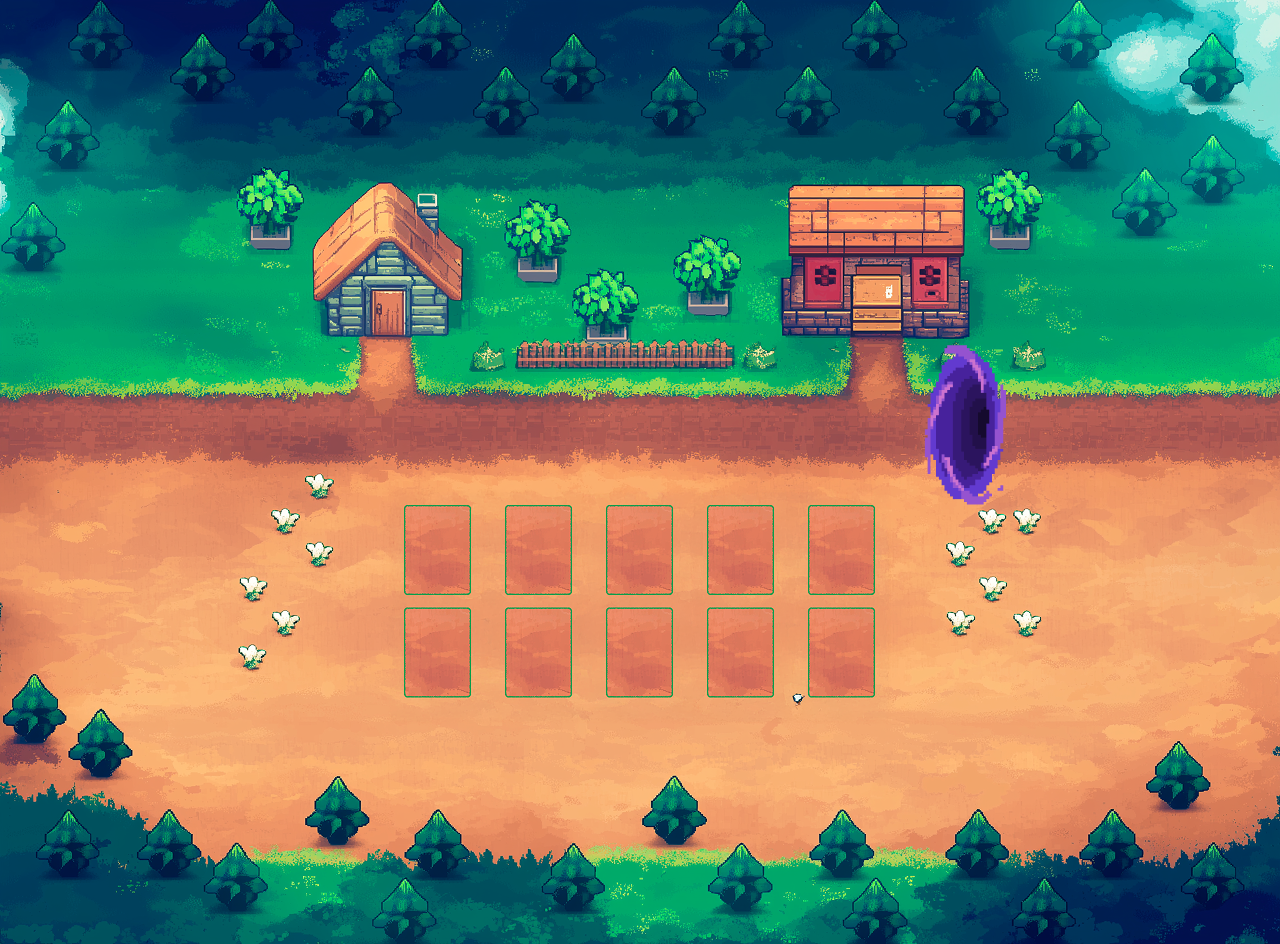
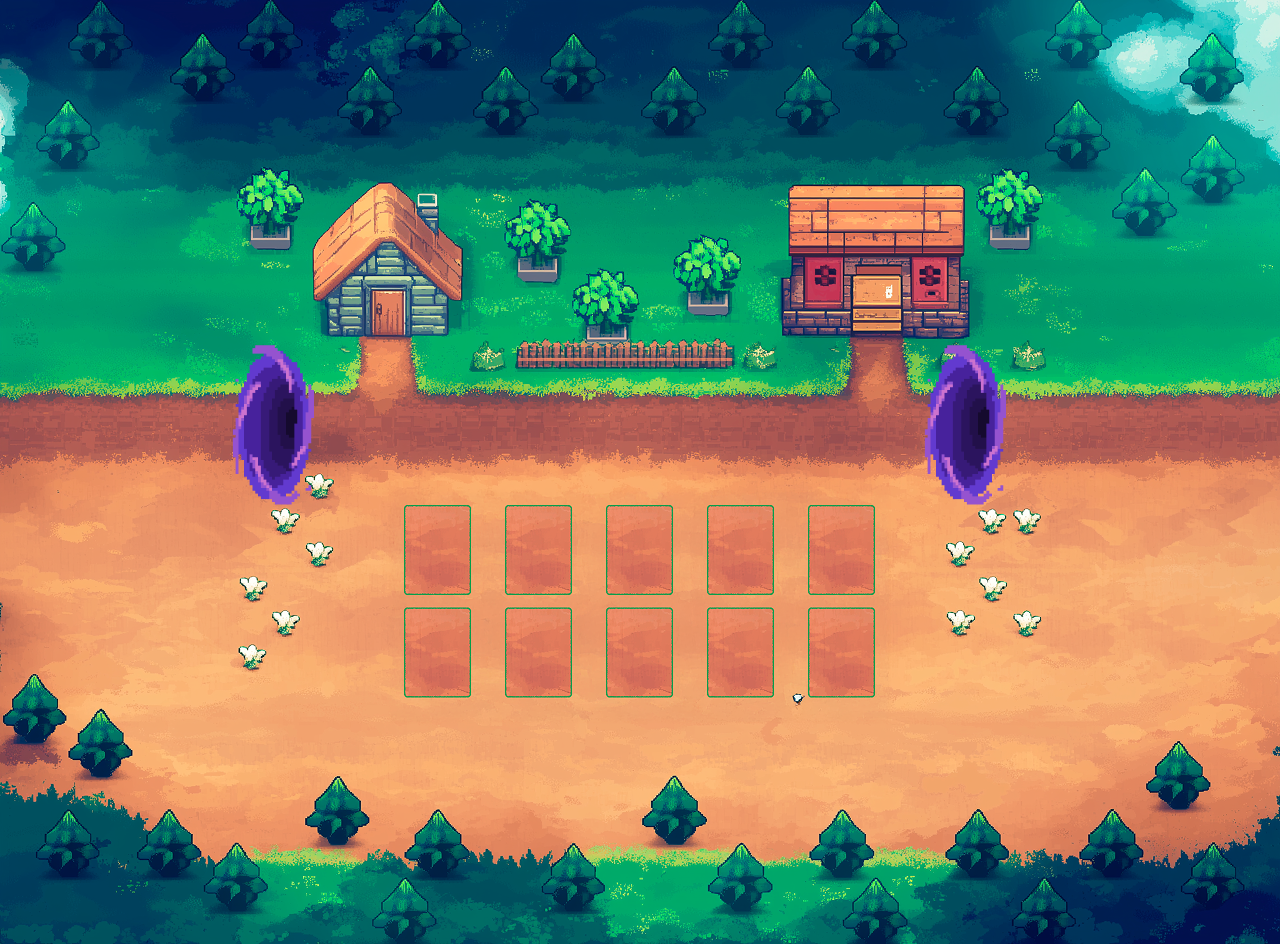
fix portal

Changed region(s): [[0.1562, 0.3686, 0.25, 0.553]]

diff --git a/src/components/Player.tsx b/src/components/Player.tsx
@@ -42,13 +42,19 @@ const marketBounds = {
   y: 1.7,
 };
 
-const portalBounds = {
+const exitPortalBounds = {
   x1: 4.5,
   x2: 3.9,
   y1: 1.5,
   y2: 0.5,
 };
 
+const enterPortalBounds = {
+  x1: -3.9,
+  x2: -4.5,
+  y1: 1.5,
+  y2: 0.5,
+};
 const playerBounds = {
   left: -2,
   center: 2,
@@ -73,7 +79,10 @@ export default function Player({
   const { ganjaFarmStore } = useStores();
   const tilesHoriz = 4;
   const tilesVert = 5;
-  const tempSpriteMap = useLoader(TextureLoader, "images/bunny_animations.png");
+  const tempSpriteMap = useLoader(
+    TextureLoader,
+    "./images/bunny_animations.png"
+  );
   tempSpriteMap.magFilter = NearestFilter;
   tempSpriteMap.repeat.set(1 / tilesHoriz, 1 / tilesVert);
 
@@ -151,8 +160,10 @@ export default function Player({
 
     const isInGarden = checkIfInGarden();
     const isAtMarket = checkIfAtMarket();
-    const ifAtPortal = checkIfAtPortal();
-    if (!isInGarden && !isAtMarket && !ifAtPortal) {
+    const ifAtExitPortal = checkIfAtExitPortal();
+    const ifAtEnterPortal = checkIfAtEnterPortal();
+    console.log({ ifAtExitPortal, ifAtEnterPortal });
+    if (!isInGarden && !isAtMarket && !ifAtExitPortal && !ifAtEnterPortal) {
       setModal("none");
       isCheckingTilesRef.current = false;
       return;
@@ -183,8 +194,10 @@ export default function Player({
       } catch (err) {
         console.error("Error checking harvest status:", err);
       }
-    } else if (ifAtPortal) {
-      setModal("portal");
+    } else if (ifAtExitPortal) {
+      setModal("exitPortal");
+    } else if (ifAtEnterPortal) {
+      setModal("enterPortal");
     } else if (isAtMarket) {
       setModal("market");
     }
@@ -216,12 +229,25 @@ export default function Player({
       return false;
     }
   }
-  function checkIfAtPortal() {
+  function checkIfAtExitPortal() {
     if (
-      ref.current!.position.x < portalBounds.x1 &&
-      ref.current!.position.x > portalBounds.x2 &&
-      ref.current!.position.y < portalBounds.y1 &&
-      ref.current!.position.y > portalBounds.y2
+      ref.current!.position.x < exitPortalBounds.x1 &&
+      ref.current!.position.x > exitPortalBounds.x2 &&
+      ref.current!.position.y < exitPortalBounds.y1 &&
+      ref.current!.position.y > exitPortalBounds.y2
+    ) {
+      return true;
+    } else {
+      return false;
+    }
+  }
+
+  function checkIfAtEnterPortal() {
+    if (
+      ref.current!.position.x < enterPortalBounds.x1 &&
+      ref.current!.position.x > enterPortalBounds.x2 &&
+      ref.current!.position.y < enterPortalBounds.y1 &&
+      ref.current!.position.y > enterPortalBounds.y2
     ) {
       return true;
     } else {

diff --git a/src/utils/portals.ts b/src/utils/portals.ts
@@ -1,0 +1,59 @@
+// Получить параметры из URL
+function getQueryParams() {
+  const params = new URLSearchParams(window.location.search);
+  return {
+    username: params.get("username") || "guest",
+    color: params.get("color") || "green",
+    speed: params.get("speed") || "1.0",
+    ref: params.get("ref") || "",
+    avatar_url: params.get("avatar_url"),
+    team: params.get("team"),
+    speed_x: params.get("speed_x"),
+    speed_y: params.get("speed_y"),
+    speed_z: params.get("speed_z"),
+    rotation_x: params.get("rotation_x"),
+    rotation_y: params.get("rotation_y"),
+    rotation_z: params.get("rotation_z"),
+    portal: params.get("portal") === "true",
+  };
+}
+
+// Собрать параметры в строку
+function buildQueryString(params: any) {
+  const query = new URLSearchParams({
+    username: params.username,
+    color: params.color,
+    speed: params.speed,
+    ref: window.location.href, // ссылка на текущую игру
+  });
+
+  if (params.avatar_url) query.append("avatar_url", params.avatar_url);
+  if (params.team) query.append("team", params.team);
+  if (params.speed_x) query.append("speed_x", params.speed_x);
+  if (params.speed_y) query.append("speed_y", params.speed_y);
+  if (params.speed_z) query.append("speed_z", params.speed_z);
+  if (params.rotation_x) query.append("rotation_x", params.rotation_x);
+  if (params.rotation_y) query.append("rotation_y", params.rotation_y);
+  if (params.rotation_z) query.append("rotation_z", params.rotation_z);
+
+  return query.toString();
+}
+
+// 🚪 Функция: игрок входит в выходной портал (Vibeverse)
+export function goToExitPortal() {
+  const params = getQueryParams();
+  const baseUrl = "http://portal.pieter.com";
+  const query = buildQueryString(params);
+  window.open(`${baseUrl}/?${query}`);
+}
+
+// 🔁 Функция: игрок возвращается назад в игру, из которой пришёл
+export function returnToRefPortal() {
+  const params = getQueryParams();
+  if (!params.ref) {
+    alert("No ref found. Cannot return.");
+    return;
+  }
+  const query = buildQueryString(params);
+  window.open(`${params.ref}?portal=true&${query}`);
+}

diff --git a/index.html b/index.html
@@ -39,17 +39,17 @@
     </script> -->
 
     <meta charset="utf-8" />
-    <link rel="icon" type="image/svg+xml" href="/favicon.ico" />
+    <link rel="icon" type="image/svg+xml" href="./favicon.ico" />
     <meta name="viewport" content="width=device-width, initial-scale=1.0" />
 
     <meta name="theme-color" content="#000000" />
     <meta name="description" content="Farm of ganja." />
-    <link rel="apple-touch-icon" href="/logo192.png" />
+    <link rel="apple-touch-icon" href="./logo192.png" />
     <!--
       manifest.json provides metadata used when your web app is installed on a
       user's mobile device or desktop. See https://developers.google.com/web/fundamentals/web-app-manifest/
     -->
-    <link rel="manifest" href="/manifest.json" />
+    <link rel="manifest" href="./manifest.json" />
     <!--
       Notice the use of %PUBLIC_URL% in the tags above.
       It will be replaced with the URL of the `public` folder during the build.
@@ -66,7 +66,7 @@
     <noscript>You need to enable JavaScript to run this app.</noscript>
     <div id="root"></div>
     <a target="_blank" href="https://jam.pieter.com" style="font-family: 'system-ui', sans-serif; position: fixed; bottom: -1px; right: -1px; padding: 7px; font-size: 14px; font-weight: bold; background: #fff; color: #000; text-decoration: none; z-index: 10; border-top-left-radius: 12px; z-index: 10000; border: 1px solid #fff;">🕹 Vibe Jam 2025</a>
-    <script type="module" src="/src/main.tsx"></script>
+    <script type="module" src="./src/main.tsx"></script>
     <!--
       This HTML file is a template.
       If you open it directly in the browser, you will see an empty page.

diff --git a/src/components/Game.tsx b/src/components/Game.tsx
@@ -13,7 +13,6 @@ import { useStores } from "../stores";
 import Background from "./Background";
 import Camera from "./Camera";
 import Garden from "./Garden";
-import Loading from "./Loading";
 import MobileControlButtons from "./MobileControls";
 import Player from "./Player";
 import HarvestModal from "./modals/HarvestModal";
@@ -21,6 +20,7 @@ import MarketModal from "./modals/MarketModal";
 import PlantModal from "./modals/PlantModal";
 import PortalModal from "./modals/PortalModal";
 import Info from "./show/Info";
+import { goToExitPortal, returnToRefPortal } from "../utils/portals";
 
 interface GameProps {
   isMobile: boolean;
@@ -90,6 +90,7 @@ const Game = observer(function Game({ isMobile, farmCoinAssetID }: GameProps) {
     []
   );
 
+
   return (
     <Box css={styles.canvasContainer}>
       <>
@@ -156,7 +157,8 @@ const Game = observer(function Game({ isMobile, farmCoinAssetID }: GameProps) {
                 farmCoinAssetID={farmCoinAssetID}
               />
             )}
-            {modal === "portal" && <PortalModal />}
+            {modal === "exitPortal" && <PortalModal type="Exit" onPress={goToExitPortal} />}
+            {modal === "enterPortal" && <PortalModal type="Enter" onPress={returnToRefPortal} />}
           </>
         )}
       </>

diff --git a/src/components/show/Inventory.tsx b/src/components/show/Inventory.tsx
@@ -73,7 +73,7 @@ const Inventory = observer(() => {
   return (
     <Container>
       <ItemBox>
-        <ItemImage src="images/tomato_seed_bag.png" alt="Seeds" />
+        <ItemImage src="./images/tomato_seed_bag.png" alt="Seeds" />
         <CounterWrapper>
           <Counter>
             {seeds != null && seeds > 99 ? "99+" : (seeds ?? "-")}
@@ -82,14 +82,14 @@ const Inventory = observer(() => {
       </ItemBox>
 
       <ItemBox>
-        <ItemImage src="images/tomato.png" alt="Tomatoes" />
+        <ItemImage src="./images/tomato.png" alt="Tomatoes" />
         <CounterWrapper>
           <Counter>{items > 99 ? "99+" : items}</Counter>
         </CounterWrapper>
       </ItemBox>
 
       <ItemBox>
-        <ItemImage src="images/coin.png" alt="Tomatoes" />
+        <ItemImage src="./images/coin.png" alt="Tomatoes" />
         <CounterWrapper>
           <Counter>
             {balance >= 1000

diff --git a/src/components/GardenTile.tsx b/src/components/GardenTile.tsx
@@ -25,12 +25,12 @@ export default function GardenTile({ position, state, num }: GardenTileProps) {
     plantTexture4,
     finalTexture,
   ] = useLoader(TextureLoader, [
-    "images/seeds.png",
-    "images/tomato_plant_1.png",
-    "images/tomato_plant_2.png",
-    "images/tomato_plant_3.png",
-    "images/tomato_plant_4.png",
-    "images/tomato_plant_final.png",
+    "./images/seeds.png",
+    "./images/tomato_plant_1.png",
+    "./images/tomato_plant_2.png",
+    "./images/tomato_plant_3.png",
+    "./images/tomato_plant_4.png",
+    "./images/tomato_plant_final.png",
   ]);
   seedTexture.magFilter = NearestFilter;
   plantTexture1.magFilter = NearestFilter;

diff --git a/src/components/modals/PortalModal.tsx b/src/components/modals/PortalModal.tsx
@@ -2,13 +2,13 @@ import { Button } from "@fuel-ui/react";
 
 import { buttonStyle } from "../../constants";
 
-export default function PortalModal() {
+export default function PortalModal({ onPress, type }: { onPress: () => void, type: "Exit" | "Enter" }) {
   return (
     <div className="market-modal">
-      <div style={styles.items}>Jump to portal?</div>
+      <div style={styles.items}>Jump To Vibeverse {type} Portal?</div>
       <Button
         css={buttonStyle}
-        onPress={() => window.open("http://portal.pieter.com")}
+        onPress={onPress}
       >
         Jump!
       </Button>

diff --git a/vite.config.ts b/vite.config.ts
@@ -4,7 +4,7 @@ import react from "@vitejs/plugin-react";
 
 export default defineConfig(({ mode }) => {
   const env = loadEnv(mode, process.cwd(), "");
-  
+
   const apiUrl = env.VITE_API_URL ?? "http://localhost:3000/ganjafarm/";
   const backendUrl = env.VITE_BACKEND_URL ?? "http://localhost:3000/v1/";
 
@@ -12,6 +12,7 @@ export default defineConfig(({ mode }) => {
 
   return {
     plugins: [react()],
+    base: "/ganja-farm-vibe-jam/",
     server: {
       proxy: {
         "/api": {
@@ -28,4 +29,3 @@ export default defineConfig(({ mode }) => {
     },
   };
 });
-

diff --git a/src/constants.ts b/src/constants.ts
@@ -63,7 +63,7 @@ export const TILES = [
   new Vector3(2.47, -2.1, 0),
 ];
 
-export type Modals = "none" | "plant" | "harvest" | "market" | "portal";
+export type Modals = "none" | "plant" | "harvest" | "market" | "exitPortal" | "enterPortal";
 
 export function convertTime(input: BN) {
   const bigNum = convertTaiTime(input.valueOf());

diff --git a/src/components/Background.tsx b/src/components/Background.tsx
@@ -1,10 +1,5 @@
 import { Image } from "@react-three/drei";
 
 export default function Background() {
-  return (
-    <>
-      <ambientLight />
-      <Image scale={[13.57, 11.51]} url={"/images/farm_map.png"} />
-    </>
-  );
+  return <Image scale={[13.57, 11.51]} url={"./images/farm_map.png"} />;
 }
